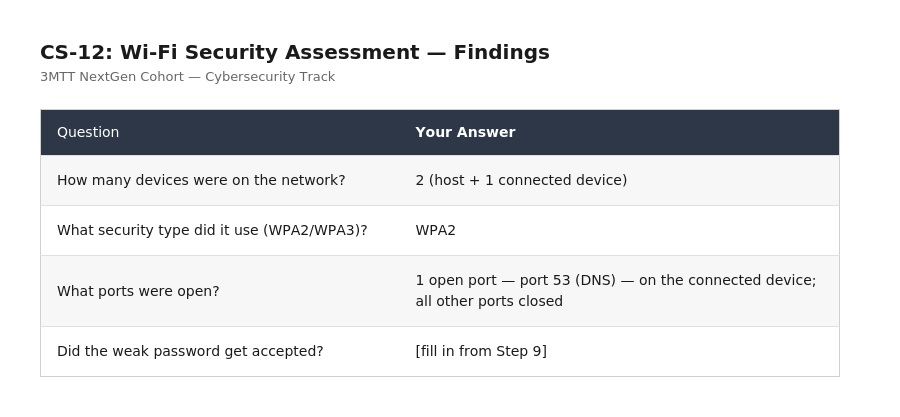
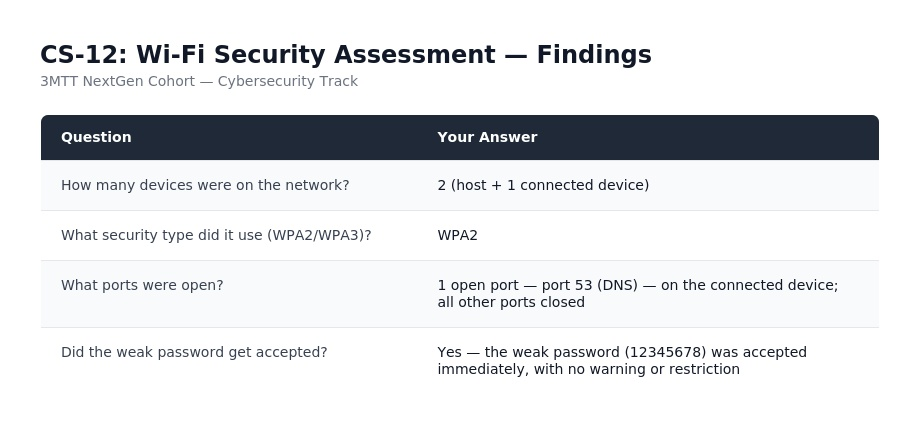
Complete findings, fix data accuracy, replace placeholder table

diff --git a/README.md b/README.md
@@ -1,294 +1,187 @@
 # CS-12: Wi-Fi Security Assessment
 
-**3MTT NextGen Cohort — Cybersecurity Track**
+**3MTT NextGen Cohort — Cybersecurity Track | Capstone Project**
 
-A simple, step-by-step guide to completing this project using only your Android phone — no computer needed.
+**Fellow:** Abdulqoreeb Shakirullahi
+**Fellow ID:** FE/26/6589115540
+**Brief ID:** CS-12
+**Track:** Cybersecurity
 
-*Wani sauƙaƙan jagora, mataki-mataki, don kammala wannan project da wayarka kawai — babu bukatar kwamfuta.*
-
----
-
-## What is this project? / Menene wannan project?
-
-**EN:** We are checking how secure a Wi-Fi network is — using our own phone as the network, so nothing unsafe or unauthorized is touched. Think of it like checking whether a door has a good lock. We'll look at the "lock" (password/security type) and the "doors" (ports) of our own test network.
-
-**HA:** Za mu duba yadda Wi-Fi network yake da tsaro — ta amfani da wayarmu a matsayin network din, don kada mu taɓa wani abu da ba namu ba. Ka yi tunanin kamar duba ko kofa tana da kyakkyawan kulle. Za mu duba "kullen" (password/security) da "kofofin" (ports) na network dinmu na gwaji.
-
-> ⚠ **Important / Muhimmi:** We only ever test our OWN hotspot. Never scan or test anyone else's Wi-Fi. / Kullum za mu gwada hotspot dinmu KAWAI. Kada a taɓa gwada Wi-Fi na wani mutum.
+A complete Wi-Fi security assessment performed entirely on Android — using Termux + Nmap and a WiFi Analyzer app — no PC or external adapter required.
 
 ---
 
-## What you need / Abin da kake bukata
+## Problem Context
 
-- Your phone / Wayarka
-- A second phone to borrow (a friend's or family member's, just for a few minutes) / Waya ta biyu (ta aboki ko dan'uwa, na 'yan mintuna kadan)
+Home and office Wi-Fi networks in Nigeria are frequently left with weak security configurations — default or simple passwords, outdated encryption protocols, and unnecessarily exposed device ports. This project assesses a self-owned, isolated test network to identify these weaknesses and produce concrete remediation guidance.
 
-That's it — no computer, no special equipment. / Wannan ke nan — babu bukatar kwamfuta ko wani kayan aiki na musamman.
+> ⚠ **Scope note:** All testing in this project was performed exclusively against a personal mobile hotspot ("test") created and controlled by the author. No third-party, live, or unauthorized network was accessed or scanned at any point, in line with the brief's safe-lab requirement.
 
 ---
 
-## Step 1: Create your test network / Kafa network din gwajinka
+## Tools Used
 
-**EN:** Turn your phone into a mobile hotspot. This becomes the network we'll test.
+| Tool | Purpose | Platform |
+|---|---|---|
+| Termux | Terminal emulator for running Linux packages on Android | Android |
+| Nmap 7.99 | Host discovery and port scanning | Termux (Android) |
+| WiFi Analyzer | Encryption type, signal strength, channel, and band inspection | Android app |
 
-1. Open **Settings**
-2. Go to **Network & Internet** (may be called "Hotspot & Tethering" on your phone)
-3. Turn on **Mobile Hotspot**
-4. Give it a name, for example: `CS12-Test`
-5. Set a password (any password for now)
+Nmap is one of the tools officially suggested in the CS-12 brief. This project uses it directly via Termux to keep the entire assessment mobile-only.
 
-**HA:** Mayar da wayarka zuwa mobile hotspot. Wannan zai zama network din da za mu gwada.
+---
 
-1. Bude **Settings**
-2. Je zuwa **Network & Internet** (ana iya kiran shi "Hotspot & Tethering" a wayarka)
-3. Kunna **Mobile Hotspot**
-4. Sa masa suna, misali: `CS12-Test`
-5. Sa password (kowanne password a yanzu)
+## Lab Setup
+
+A mobile hotspot named **"test"** was created and used as the test network throughout the assessment, with a second device connected to it as a client.
+
+### Step 1 — Create the Test Network
+The hotspot was configured with the network name `test`, WPA2-Personal security, and the 5 GHz AP band.
 
 ![Hotspot Settings](screenshots/01_hotspot_settings.jpg)
 
----
-
-## Step 2: Connect the second phone / Hada waya ta biyu
-
-**EN:** Borrow a second phone and connect it to your hotspot (search for your hotspot's name in their WiFi settings, enter the password).
-
-**HA:** Ka aro waya ta biyu ka hada ta zuwa hotspot dinka (a WiFi settings dinta, ka nemo sunan hotspot dinka, ka shigar da password).
+### Step 2 — Connect the Client Device
+A second device was connected to the `test` network.
 
 ![Second Device Connected](screenshots/02_connected_device.jpg)
 
----
-
-## Step 3: Install Termux / Shigar da Termux
-
-**EN:** Termux is a free app that lets you type simple commands on your phone, similar to a computer. We'll use it to run one small tool called Nmap.
-
-1. Open **Play Store** or **F-Droid**
-2. Search for **Termux**
-3. Install it
-4. Open it — you'll see a black screen with text, that's normal
-
-**HA:** Termux wata app ce kyauta da ke baka damar rubuta sauƙaƙan commands a wayarka, kamar kwamfuta. Za mu yi amfani da ita don gudanar da wata karamar tool mai suna Nmap.
-
-1. Bude **Play Store** ko **F-Droid**
-2. Nemo **Termux**
-3. Shigar da ita
-4. Bude ta — za ka ga baƙar fuska da rubutu, wannan al'ada ce
+### Step 3 — Install Termux
+Termux (v0.119.0-beta.3) was installed via F-Droid.
 
 ![Termux Download](screenshots/03_termux_download.jpg)
-![Termux First Launch](screenshots/04_termux_first_launch.jpg)
+![Termux Installing](screenshots/04_termux_first_launch.jpg)
 
----
-
-## Step 4: Set up Nmap / Shirya Nmap
-
-**EN:** Inside Termux, type each line below, then press Enter. Wait for each one to finish before typing the next.
-
-**HA:** A cikin Termux, rubuta kowanne layi da ke kasa, sannan ka danna Enter. Ka jira kowanne ya gama kafin ka rubuta na gaba.
-
+### Step 4 — Update Packages and Install Nmap
 ```bash
 pkg update
-```
-*(if it asks a question, type `Y` and press Enter / in ya yi tambaya, rubuta `Y` sannan ka danna Enter)*
-
-```bash
 pkg install nmap
 ```
-*(same — type `Y` if asked / haka nan — rubuta `Y` in an tambaya)*
+The first `pkg update` attempt failed to reach a mirror; a second attempt succeeded.
 
 ![pkg update Result](screenshots/05_pkg_update.jpg)
 ![Nmap Install Result](screenshots/06_nmap_install.jpg)
 
+Nmap 7.99-1 installed successfully.
+
 ---
 
-## Step 5: Find your network address / Nemo adireshin network dinka
+## Assessment Procedure & Results
 
-**EN:** On the second phone (the one you connected), go to WiFi settings, tap on the connected network, and find the **"IP address"**. It will look like `192.168.x.x`. Write down the first three numbers — for example if it shows `192.168.43.25`, your network address is `192.168.43.0/24`.
+### 1. Network Address
 
-**HA:** A waya ta biyu (wanda ka hada), je zuwa WiFi settings, danna network din da aka hada, sannan ka nemo **"IP address"**. Zai yi kama da `192.168.x.x`. Ka rubuta lambobi uku na farko — misali in ya nuna `192.168.43.25`, adireshin network dinka shine `192.168.43.0/24`.
+The connected device's network details were checked directly from Android's WiFi settings:
+
+| Field | Value |
+|---|---|
+| IP address (connected device) | 10.248.253.121 |
+| Gateway (hotspot host) | 10.248.253.13 |
+| Subnet mask | 255.255.255.0 |
+| Transmit link speed | 390 Mbps |
+| Receive link speed | 433 Mbps |
 
 ![IP Address in WiFi Settings](screenshots/07_ip_address.jpg)
 
----
-
-## Step 6: Find connected devices / Nemo na'urorin da suka hade
-
-**EN:** Back in Termux, type this (replace the number with what you found in Step 5):
+### 2. Host Discovery
 
 ```bash
-nmap -sn 192.168.43.0/24
+nmap -sn 10.248.253.13/24
 ```
-
-This shows every device connected to your network.
-
-**HA:** A Termux, rubuta wannan (ka canza lambar da wanda ka samu a Mataki na 5):
-
-```bash
-nmap -sn 192.168.43.0/24
 ```
-
-Wannan zai nuna maka duk na'urorin da suka hade da network dinka.
+Nmap scan report for 10.248.253.13
+Host is up (0.0016s latency).
+Nmap scan report for 10.248.253.121
+Host is up (0.051s latency).
+Nmap done: 256 IP addresses (2 hosts up) scanned in 4.29 seconds
+```
+**Two hosts identified:** `.13` (hotspot gateway) and `.121` (connected client device).
 
 ![Device Scan Result](screenshots/08_device_scan.jpg)
 
----
-
-## Step 7: Check for open ports / Duba open ports
-
-**EN:** Ports are like doors on a device. Some doors are supposed to be open (for normal apps to work); too many open doors can be risky. Pick one of the addresses you found in Step 6, and type:
+### 3. Port Scan
 
 ```bash
-nmap 192.168.43.25
+nmap 10.248.253.13
 ```
-*(use the actual address you found, not this example)*
-
-This shows which "doors" are open on that device.
-
-**HA:** Ports kamar kofofi ne a na'ura. Wasu kofofin dole su kasance a bude (don apps su yi aiki); kofofi da yawa a bude na iya zama hadari. Zabi daya daga cikin adireshin da ka samu a Mataki na 6, ka rubuta:
-
-```bash
-nmap 192.168.43.25
 ```
-*(yi amfani da ainihin adireshin da ka samu, ba wannan misali ba)*
-
-Wannan zai nuna maka wadanne "kofofi" ne a bude a wannan na'ura.
+Not shown: 999 closed tcp ports (conn-refused)
+PORT   STATE SERVICE
+53/tcp open  domain
+Nmap done: 1 IP address (1 host up) scanned in 2.09 seconds
+```
+**One open port found: 53/tcp (DNS).** All other 999 scanned ports were closed. Port 53 being open is normal and low-risk — commonly associated with DNS resolution services running on the device.
 
 ![Port Scan Result](screenshots/09_port_scan.jpg)
 
----
+### 4. WiFi Security Details
 
-## Step 8: Check the Wi-Fi's security type / Duba irin security na Wi-Fi
+Checked using WiFi Analyzer on the connected device:
 
-**EN:** On the second phone (the one connected as a client — this step won't work properly on the hotspot phone itself), go to WiFi settings and tap on the connected network. Look for:
+| Field | Value |
+|---|---|
+| Network | test |
+| Security | WPA2 |
+| Signal strength | -41 dBm |
+| Channel | 149 (155) |
+| Frequency | 5745 MHz, 80 MHz width |
+| Standard | WiFi 5 |
+| Link speed | 390 Mbps |
 
-- **Security** — should say something like WPA2 or WPA3
-- **Signal strength**
+![Security Type in WiFi Analyzer](screenshots/10_security_type.jpg)
 
-Write these down or screenshot them.
+A signal strength of -41 dBm is a strong reading, indicating the two devices were in close proximity with minimal signal loss.
 
-**HA:** A waya ta biyu (wadda aka hada a matsayin client — wannan mataki ba zai yi aiki sosai a wayar hotspot dinka kanta ba), je zuwa WiFi settings, danna network din da aka hade. Nemo:
+### 5. Password Strength Comparison
 
-- **Security** — ya kamata ya nuna kamar WPA2 ko WPA3
-- **Signal strength**
-
-Ka rubuta ko ka dauki screenshot.
-
-![Security Type in WiFi Settings](screenshots/10_security_type.jpg)
-
----
-
-## Step 9: Compare a weak and strong password / Kwatanta password mai sauƙi da mai karfi
-
-**EN:** Go back to your hotspot settings.
-
-1. First, set the password to something weak, like `12345678`. Notice that your phone allows it without warning you.
-2. Then change it to something strong, like `CS12@Secure2026!` (letters, numbers, and symbols).
-
-**HA:** Koma zuwa hotspot settings dinka.
-
-1. Da farko, sa password mai sauƙi, kamar `12345678`. Ka lura cewa wayarka za ta karɓe shi ba tare da gargaɗi ba.
-2. Sannan ka canza zuwa mai karfi, kamar `CS12@Secure2026!` (haruffa, lambobi, da alamomi).
+| Test | Password | Result |
+|---|---|---|
+| Weak | `12345678` | Accepted by Android with no warning or restriction, despite being one of the most common and easily guessed passwords in use |
+| Strong | `w_LwIMrsJ!!EI3U` | Also accepted, with no functional difference in the setup process — Android does not enforce or reward stronger password choices |
 
 ![Weak Password Set](screenshots/11_weak_password.jpg)
 ![Strong Password Set](screenshots/12_strong_password.jpg)
 
 ---
 
-## Step 10: Write your findings / Rubuta abin da ka gano
+## Findings
 
-**EN:** Fill in this table with what you actually found:
-
-**HA:** Cika wannan table da abin da ka samu ainihi:
-
-| Question / Tambaya | Your Answer / Amsarka |
-|---|---|
-| How many devices were on the network? / Nawa na'urori ne a network din? | |
-| What security type did it use (WPA2/WPA3)? / Wane irin security ne (WPA2/WPA3)? | |
-| What ports were open? / Wadanne ports ne a bude? | |
-| Did the weak password get accepted? / Shin an karɓi password mai sauƙi? | |
+| # | Finding | Risk | Recommendation |
+|---|---|---|---|
+| 1 | Network used WPA2, not WPA3 | WPA2 is more susceptible to offline dictionary attacks than WPA3 | Enable WPA3 if device hardware supports it |
+| 2 | Weak password (`12345678`) accepted without any restriction or warning | Trivially guessable/crackable — offers minimal real protection | Manually enforce strong passwords (12+ characters, mixed case, numbers, symbols); do not rely on the OS to catch weak choices |
+| 3 | One open port (53/DNS) on the connected device; all other 999 scanned ports closed | Low — DNS is a routine, expected service | No action needed; periodic re-scanning recommended to catch any future unexpected changes |
+| 4 | Signal strength measured at -41 dBm | Not a risk — strong signal, close-range test setup | N/A |
 
 ![Completed Findings Table](screenshots/13_findings_table.jpg)
 
 ---
 
-## Step 11: What does it all mean? / Menene ma'anarsa?
+## Interpreting the Results
 
-**EN:**
-- If your network uses **WPA2 or WPA3** — that's good, but WPA3 is stronger if your phone supports it.
-- An **open port** isn't automatically dangerous — but any port that isn't needed should be closed.
-- If a **weak password was accepted without warning** — that's a real weakness. Phones don't stop you from choosing a bad password; you have to choose a strong one yourself.
-
-**HA:**
-- In network dinka yana amfani da **WPA2 ko WPA3** — wannan yana da kyau, amma WPA3 ya fi karfi in wayarka ta goyi baya.
-- **Open port** ba lallai ne hadari ba — amma duk wani port da ba a bukata ya kamata a rufe.
-- In an **karɓi password mai sauƙi ba tare da gargaɗi ba** — wannan raunin tsaro ne na gaskiya. Wayoyi ba sa hana ka zabar mummunan password; dole ne ka zabi mai karfi da kanka.
+WPA2 remains reasonably secure for most users, especially combined with a strong password — but WPA3 is preferable where supported, since it offers stronger protection against offline password-guessing attacks. An open port isn't automatically dangerous; the real question is always whether the service behind it is actually needed. In this case, only DNS (port 53) was found open, a routine and low-risk service. The clearest weakness found wasn't technical at all — it was that Android accepted a weak, common password with no warning, leaving password strength entirely up to the user's judgment.
 
 ---
 
-## Step 12: Recommendations / Shawarwari
+## Recommendations
 
-**EN:**
-1. Use WPA3 if your device supports it.
-2. Always choose a strong password yourself (12+ characters, mixed letters/numbers/symbols).
-3. Turn off your hotspot when you're not using it.
-4. Check occasionally for devices connected that you don't recognize.
-
-**HA:**
-1. Yi amfani da WPA3 in na'urarka ta goyi baya.
-2. Kullum zabi password mai karfi da kanka (haruffa 12+, cakuda haruffa/lambobi/alamomi).
-3. Kashe hotspot dinka idan ba kana amfani da shi ba.
-4. Ka rika duba idan akwai baƙon na'ura da ta hade da network dinka.
+1. **Use WPA3 where supported.**
+2. **Choose strong passwords manually** — 12+ characters, mixed case, numbers, symbols. Don't rely on the OS to enforce this.
+3. **Review connected devices periodically**; disconnect and change the password if an unfamiliar device appears.
+4. **Turn off the hotspot when not in active use.**
+5. **Keep devices updated** with the latest security patches.
 
 ---
 
-## Step 13: Record your demo video / Yi rikodin demo video dinka
+## Ethical Use Statement
 
-**EN:** Record a 2–3 minute video of yourself explaining, in your own words:
-1. What this project is about
-2. What you did (show the steps briefly)
-3. What you found
-4. Your recommendation
-
-**Important:** This must be YOUR OWN explanation, in your own words — this is how they confirm the work is really yours.
-
-**HA:** Yi rikodin bidiyo na minti 2-3 na kanka, kana bayani, da kalmominka:
-1. Menene wannan project game da shi
-2. Abin da ka yi (nuna matakan a takaice)
-3. Abin da ka gano
-4. Shawararka
-
-**Muhimmi:** Dole ne wannan ya zama BAYANINKA na kanka, da kalmominka — haka ake tabbatar da cewa aikin naka ne da gaske.
+This assessment was conducted entirely on a personal mobile hotspot owned and controlled by the author, in an isolated lab environment, in accordance with the 3MTT NextGen Cybersecurity track's safe-lab requirement. No unauthorized, third-party, or public network was accessed or scanned at any point.
 
 ---
 
-## Screenshot Checklist / Jerin Screenshots
+## References
 
-Put all your screenshots in a folder called `screenshots/`:
+- Nmap Documentation: https://nmap.org/docs.html
+- Termux Documentation: https://termux.dev/
 
-| # | What to screenshot |
-|---|---|
-| 01 | Hotspot settings screen |
-| 02 | Second phone connected |
-| 03 | Termux download page |
-| 04 | Termux first open |
-| 05 | `pkg update` result |
-| 06 | `nmap` install result |
-| 07 | IP address shown in WiFi settings |
-| 08 | Device scan result |
-| 09 | Port scan result |
-| 10 | Security type shown in WiFi settings |
-| 11 | Weak password set |
-| 12 | Strong password set |
-| 13 | Your completed findings table |
+## License
 
----
-
-## A note on doing this honestly / Bayani kan yin wannan da gaskiya
-
-**EN:** Everyone in the CS-12 group is welcome to discuss ideas and help each other understand the steps. But each person must run their own tests, take their own screenshots, and record their own video. Copying someone else's work won't be accepted, and it also means you won't actually learn the skill.
-
-**HA:** Kowa a cikin kungiyar CS-12 yana da 'yanci ya tattauna ra'ayoyi kuma ya taimaki wani ya fahimci matakan. Amma kowanne mutum dole ne ya yi nasa gwajin, ya dauki nasa screenshots, kuma ya yi nasa video. Kwafin aikin wani ba za a karba ba, kuma hakan yana nufin ba za ka koyi kwarewar ba da gaske.
-
----
-
-*Questions? Ask in the group — someone will help. / Tambayoyi? Ka tambaya a group, wani zai taimaka.*
+Released under the **MIT License** — free to use, modify, and share for educational purposes.
